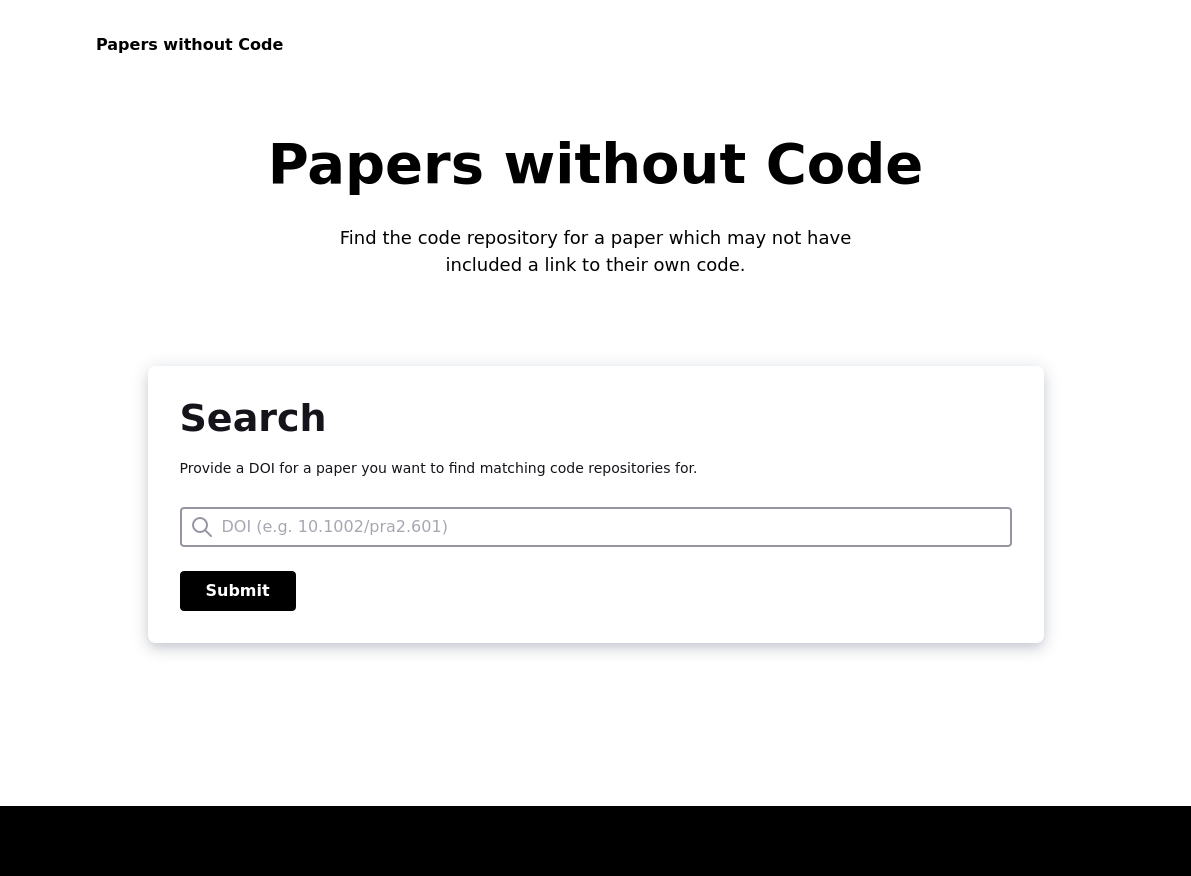
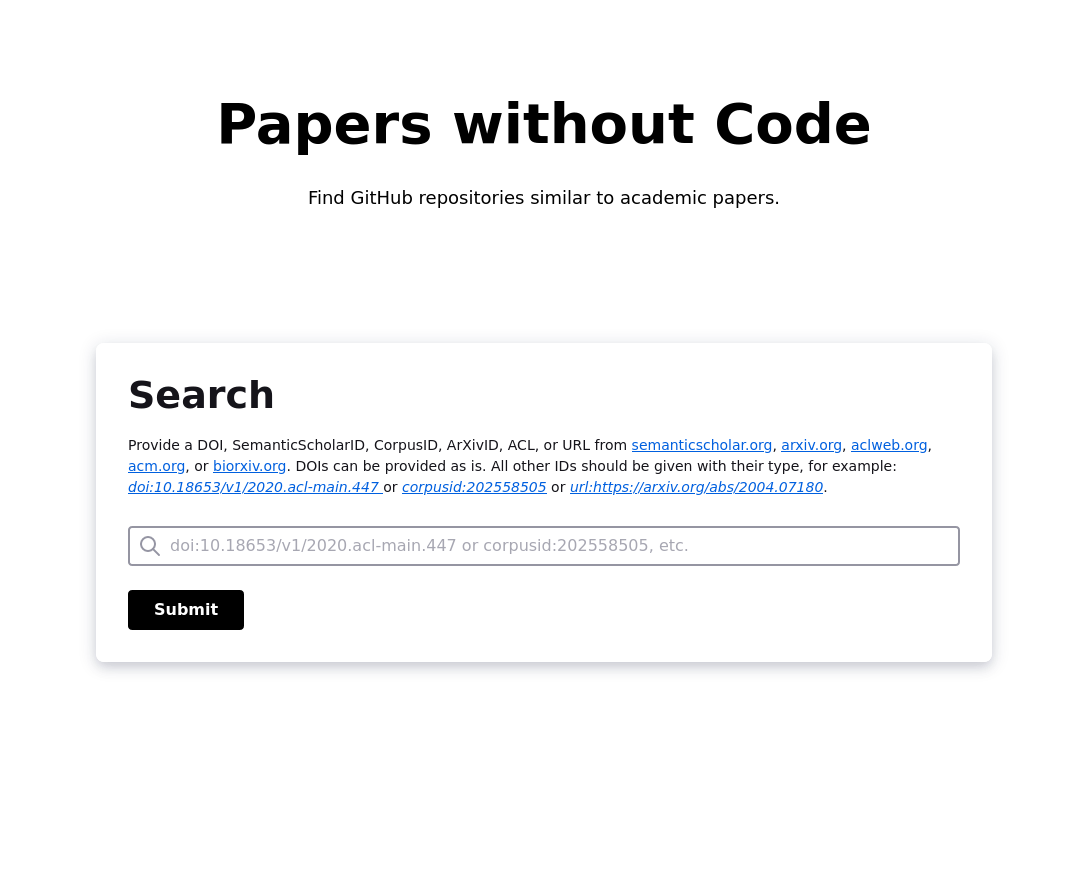
Documentation improvements / tag-line

diff --git a/papers_without_code/app/templates/base.html b/papers_without_code/app/templates/base.html
@@ -8,7 +8,7 @@
         />
         <meta
             name="description"
-            content="Find the code repository for a paper which may not have included a link to their own code."
+            content="Find GitHub repositories similar to academic papers."
         />
         <meta charset="utf-8" />
         <meta name="viewport" content="width=device-width, initial-scale=1" />
@@ -25,7 +25,7 @@
         />
         <meta
             property="og:description"
-            content="Find the code repository for a paper which may not have included a link to their own code."
+            content="Find GitHub repositories similar to academic papers."
         />
 
         <!-- Twitter -->
@@ -39,7 +39,7 @@
         />
         <meta
             property="twitter:description"
-            content="Find the code repository for a paper which may not have included a link to their own code."
+            content="Find GitHub repositories similar to academic papers."
         />
         
         <!-- Static CSS -->

diff --git a/papers_without_code/app/templates/index.html b/papers_without_code/app/templates/index.html
@@ -6,7 +6,7 @@
         <h1 class="mzp-c-hero-title">Papers without Code</h1>
         <div class="mzp-c-hero-body">
             <div class="mzp-c-hero-desc">
-                <p>Find the code repository for a paper which may not have included a link to their own code.</p>
+                <p>Find GitHub repositories similar to academic papers.</p>
             </div>
         </div>
 

diff --git a/papers_without_code/bin/pwoc.py b/papers_without_code/bin/pwoc.py
@@ -24,7 +24,8 @@ class Args(argparse.Namespace):
         p = argparse.ArgumentParser(
             prog="pwoc",
             description=(
-                "Papers without Code: find code repositories for academic papers."
+                "Papers without Code: Find GitHub repositories similar "
+                "to academic papers."
             ),
         )
         p.add_argument(
@@ -86,14 +87,25 @@ def main() -> None:
         )
         print()
         print()
-        print("Most Similar Repository")
-        print("-----------------------")
-        pprint(repos[0])
-        print()
-        print()
-        print("Other Similar Repositories")
-        print("--------------------------")
-        pprint(repos[1:])
+
+        # Handle nothing found
+        if len(repos) == 0:
+            print("No repositories found which were similar.")
+
+        # At least one
+        else:
+            print("Most Similar Repository")
+            print("-----------------------")
+            pprint(repos[0])
+
+        # More
+        if len(repos) > 1:
+            print()
+            print()
+            print("Other Similar Repositories")
+            print("--------------------------")
+            pprint(repos[1:])
+
     except Exception as e:
         log.error("=============================================")
         log.error("\n\n" + traceback.format_exc())

diff --git a/README.md b/README.md
@@ -57,9 +57,9 @@ back, we rank them by similarity between the repository's README and the paper's
 abstract (or if not available, it's title).
 
 When using Papers without Code locally and providing a filepath, the only change to
-the system is that we get keywords not only from the paper's title and abstract but
-additionally, we use [GROBID](https://github.com/kermitt2/grobid) to extract
-all text from the paper and then extract keywords from the full text as well.
+this workflow, is keyword extraction. When local and providing a filepath,
+we use [GROBID](https://github.com/kermitt2/grobid) to extract
+keywords from the full text of the paper in addition to the title and abstract.
 
 ## Documentation
 
